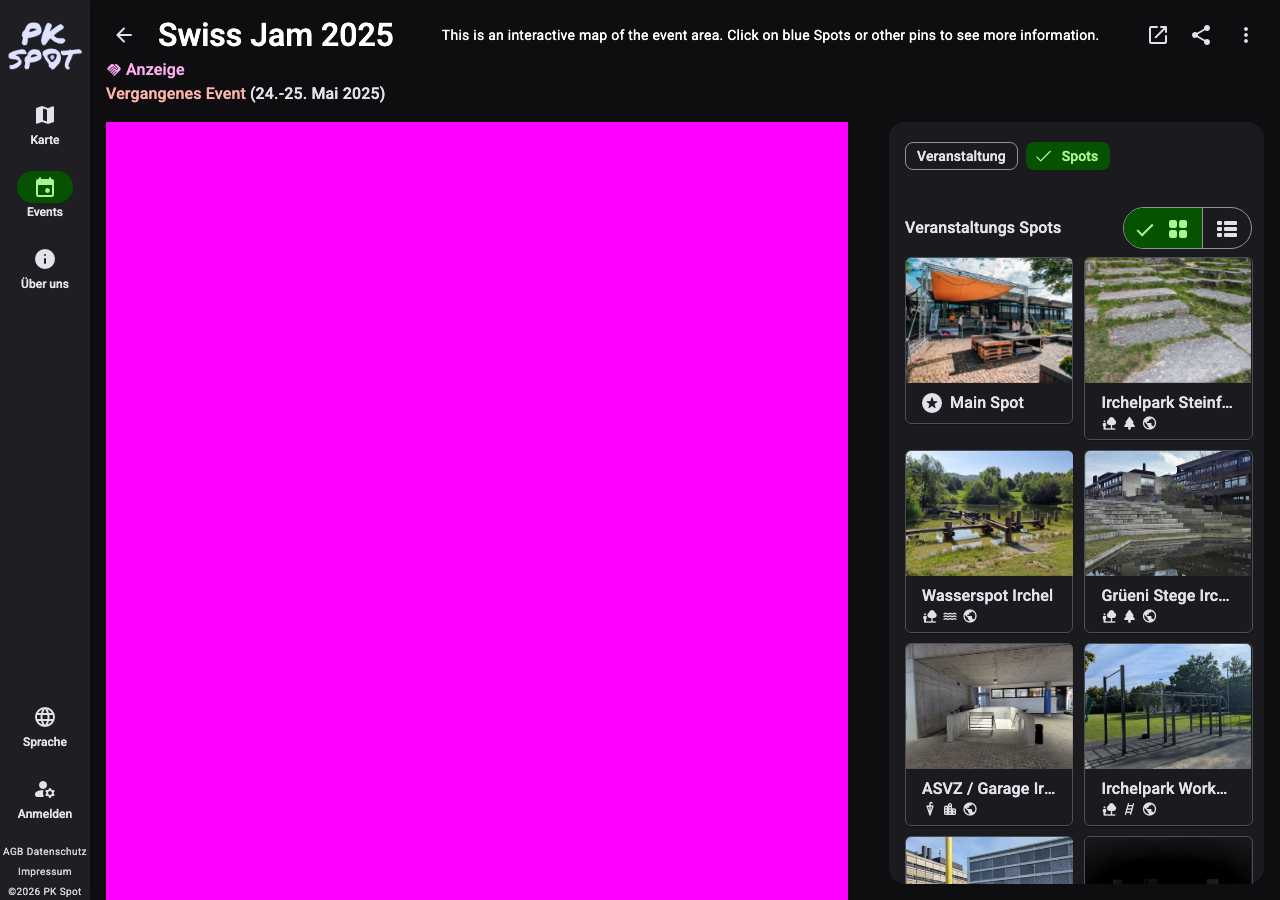
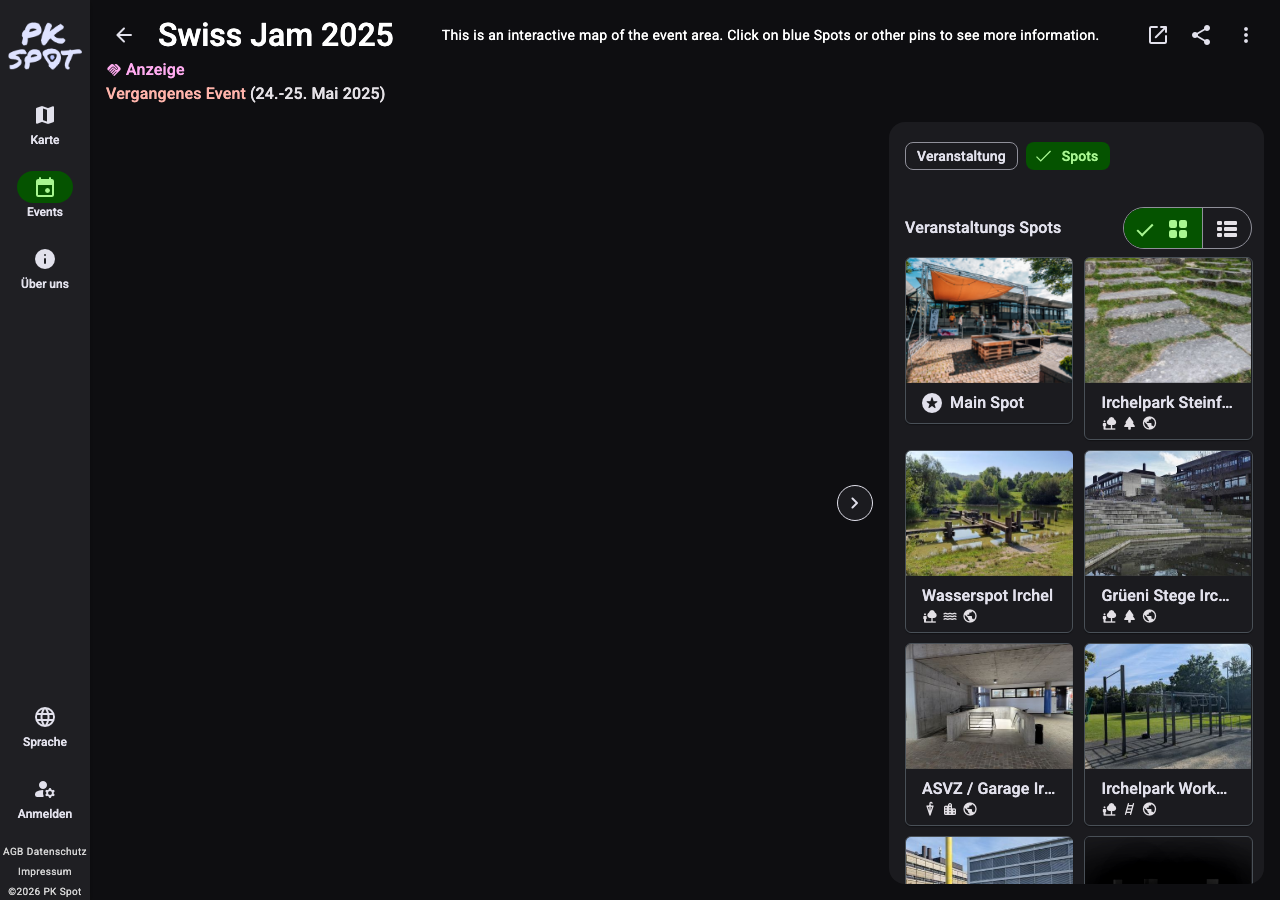
test: stabilize event map visuals

diff --git a/e2e/visual/routes.visual.spec.ts b/e2e/visual/routes.visual.spec.ts
@@ -1,4 +1,4 @@
-import { expect, test, type Page } from "@playwright/test";
+import { expect, test, type Locator, type Page } from "@playwright/test";
 
 interface RouteVisualCase {
   name: string;
@@ -9,6 +9,7 @@ interface RouteVisualCase {
   fullPage?: boolean;
   clip?: { x: number; y: number; width: number; height: number };
   maxDiffPixels?: number;
+  eventMapLayout?: "full" | "embedded";
 }
 
 const desktopViewport = { width: 1280, height: 900 };
@@ -27,7 +28,8 @@ const routeVisualCases: RouteVisualCase[] = [
   {
     name: "event-map",
     path: "/events/swissjam25/map",
-    maxDiffPixels: 20_000,
+    maxDiffPixels: 2_000,
+    eventMapLayout: "full",
   },
   {
     name: "settings-profile",
@@ -94,7 +96,8 @@ const routeVisualCases: RouteVisualCase[] = [
     name: "embedded-event-map",
     path: "/embedded/events/swissjam25/map",
     viewport: mobileViewport,
-    maxDiffPixels: 8_000,
+    maxDiffPixels: 1_000,
+    eventMapLayout: "embedded",
   },
   {
     name: "not-found",
@@ -111,13 +114,14 @@ test.describe("Route visual regression @visual", () => {
 
       const mapSurfaces = page.locator("app-google-map-2d, google-map, .gm-style");
       const spinners = page.locator("mat-spinner, mat-progress-spinner");
+      const masks = route.eventMapLayout ? [] : [mapSurfaces, spinners];
 
       await expect(page).toHaveScreenshot(`${route.name}-route.png`, {
         animations: "disabled",
         clip: route.clip,
         fullPage: route.fullPage ?? false,
         maxDiffPixels: route.maxDiffPixels ?? 1_000,
-        mask: [mapSurfaces, spinners],
+        mask: masks,
       });
     });
   }
@@ -187,4 +191,72 @@ async function prepareRoute(page: Page, route: RouteVisualCase): Promise<void> {
     .toBeGreaterThan(20);
   await page.waitForLoadState("load");
   await page.waitForTimeout(900);
+
+  if (route.eventMapLayout) {
+    await waitForStableEventMap(page, route.eventMapLayout);
+  }
+}
+
+async function waitForStableEventMap(
+  page: Page,
+  layout: "full" | "embedded",
+): Promise<void> {
+  const eventMap = page.locator("app-event-map-page");
+  const mapSurface = eventMap.locator("app-google-map-2d");
+
+  await expect(eventMap).toBeVisible();
+  await expect(mapSurface).toBeVisible();
+
+  if (layout === "embedded") {
+    const promo = page.locator(".embedded-promo");
+    const brand = promo.locator(".embedded-promo__brand");
+    await expect(promo).toBeVisible();
+    await expect(brand).toBeVisible();
+    await expect(brand).toBeInViewport();
+    await expect
+      .poll(async () => {
+        const box = await promo.boundingBox();
+        const viewport = page.viewportSize();
+        return !!box && !!viewport && box.y + box.height <= viewport.height;
+      })
+      .toBe(true);
+  } else {
+    await expect(eventMap.locator("mat-drawer.mat-drawer-opened")).toBeVisible();
+    await expect(eventMap.locator("app-spot-preview-card").first()).toBeVisible();
+  }
+
+  await waitForResizeToSettle(mapSurface);
+  await page.addStyleTag({
+    content: `
+      app-event-map-page app-google-map-2d {
+        visibility: hidden !important;
+      }
+    `,
+  });
+}
+
+async function waitForResizeToSettle(locator: Locator): Promise<void> {
+  await locator.evaluate(
+    (element, quietPeriodMs) =>
+      new Promise<void>((resolve) => {
+        let quietTimer = 0;
+        let timeoutTimer = 0;
+
+        const finish = () => {
+          window.clearTimeout(quietTimer);
+          window.clearTimeout(timeoutTimer);
+          observer.disconnect();
+          resolve();
+        };
+        const observer = new ResizeObserver(() => {
+          window.clearTimeout(quietTimer);
+          quietTimer = window.setTimeout(finish, quietPeriodMs);
+        });
+
+        observer.observe(element);
+        quietTimer = window.setTimeout(finish, quietPeriodMs);
+        timeoutTimer = window.setTimeout(finish, 5_000);
+      }),
+    500,
+  );
 }

diff --git a/src/app/app.component.scss b/src/app/app.component.scss
@@ -155,12 +155,16 @@ body:has(.terms-footer) {
 .embedded-content {
   flex: 1 1 auto;
   min-height: 0;
+  position: relative;
+  z-index: 0;
 }
 
 .embedded-promo {
   display: flex;
   align-items: center;
   justify-content: space-between;
+  position: relative;
+  z-index: 1;
   gap: 12px;
   min-height: 48px;
   padding: 6px 12px;